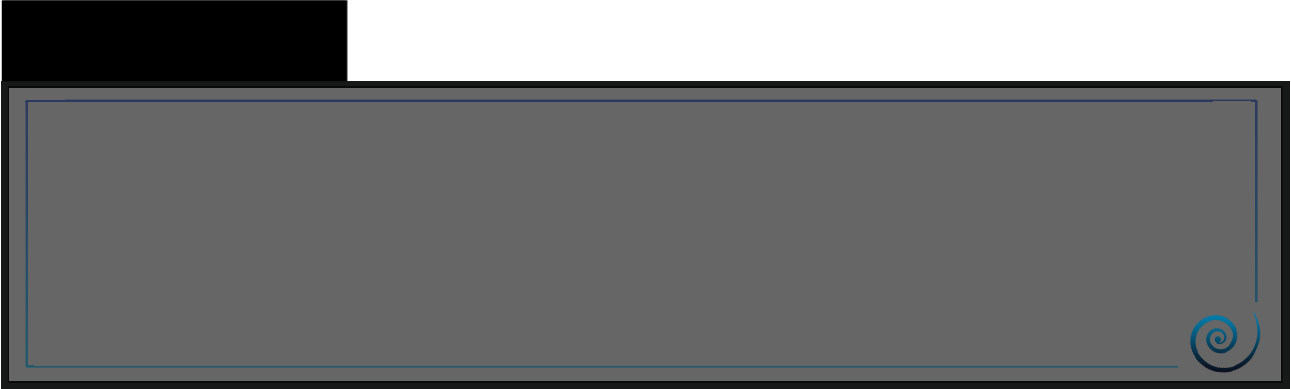
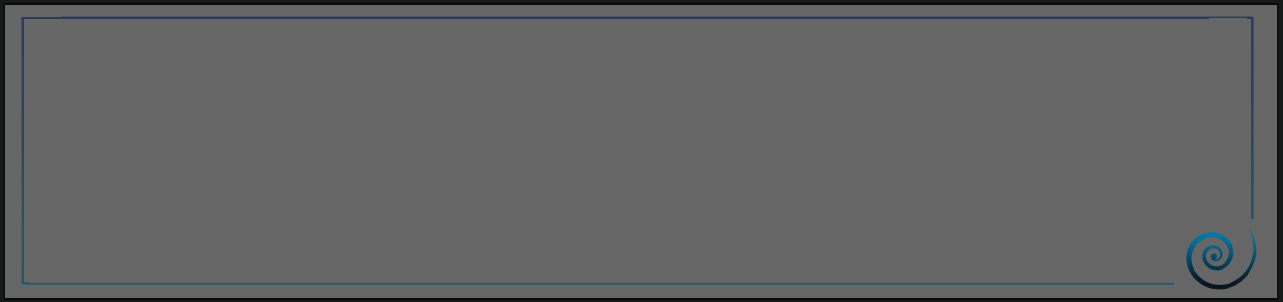
Доработано диологовое окно.

Changed region(s): [[0.0, 0.0, 1.0, 1.0]]

diff --git a/src/dialogue_box.rs b/src/dialogue_box.rs
@@ -7,7 +7,7 @@ use crate::{
 use lib::{
     AlignX,
     AlignY,
-    colours::White,
+    colours::{White,Black},
     TextViewLined,
     TextViewSettings
 };
@@ -19,11 +19,11 @@ use engine::{
     // structs
     image::{ImageBase,Texture,image::RgbaImage},
     text::{TextBase,Glyphs},
-    graphics::GameGraphics,
+    graphics::{GameGraphics,Point2D,MonoColourPolygon},
     glium::{Display,DrawParameters},
 };
 
-const k:f32=3.3f32; // Отношение размера окна игры к диалоговому окну
+const k:f32=4f32; // Отношение размера окна игры к диалоговому окну
 
 const font_size:f32=24f32;
 
@@ -34,6 +34,7 @@ pub struct DialogueBox<'b,'c>{
     chars:f32, // Количесво выводимых в данный момент символов диалога
     dialogue_step:usize,
     y1:f32, // Граница нижней трети экрана, где находится диалоговое окно
+    name_box:MonoColourPolygon,
     name_base:TextBase,
     lines:TextViewLined<'c>, // Текстовый блок для диалогов
     image:ImageBase,
@@ -43,28 +44,43 @@ pub struct DialogueBox<'b,'c>{
 
 impl<'b,'c> DialogueBox<'b,'c>{
     pub fn new(texture:&RgbaImage,display:&Display,glyphs:&'c Glyphs)->DialogueBox<'b,'c>{
-        let texture=Texture::from_image(display,texture).unwrap();
-
         unsafe{
             let height=window_height/k; // Высота диалогового окна
             let y1=window_height-height; // Верхняя граница диалогового окна
 
+            let rect=[
+                0f32,
+                y1,
+                window_width,
+                height,
+            ];
+
+            let polygon=[
+                Point2D::new(0f32,y1-60f32),
+                Point2D::new(400f32,y1-60f32),
+                Point2D::new(460f32,y1),
+                Point2D::new(0f32,y1),
+                Point2D::new(0f32,y1-60f32),
+            ];
+
+            let texture=Texture::from_image(display,texture).unwrap();
+
             // Позиция имени
             let name_position=[
-                window_width/50f32,
-                y1+height/5.5f32,
+                20f32,
+                y1-18f32,
             ];
 
             let line_position=[
-                window_width/30f32,
-                name_position[1]+height/5f32,
+                60f32,
+                y1+40f32,
             ];
 
             let line_settings=TextViewSettings::new("",[
                         line_position[0],
                         line_position[1],
                         (window_width-2f32*line_position[0]),
-                        height*0.8f32,
+                        height-80f32,
                     ])
                     .font_size(font_size)
                     .align_x(AlignX::Left)
@@ -80,15 +96,11 @@ impl<'b,'c> DialogueBox<'b,'c>{
                 lines:TextViewLined::new(line_settings,&glyphs),
 
                 // Имя
+                name_box:MonoColourPolygon::new(&polygon,Black),
                 name_base:TextBase::new(White,font_size)
                         .position([name_position[0],name_position[1]]),
 
-                image:ImageBase::new(White,[
-                    0f32,
-                    y1,
-                    window_width,
-                    height
-                ]),
+                image:ImageBase::new(White,rect),
                 
                 texture:texture,
                 glyphs:glyphs
@@ -154,6 +166,7 @@ impl<'b,'c> DialogueBox<'b,'c>{
 
         self.image.draw(&self.texture,draw_parameters,g); // Основа
 
+        self.name_box.draw(draw_parameters,g);
         self.name_base.draw(name,draw_parameters,g,&self.glyphs); // Имя
 
         // Реплика

diff --git a/engine/src/graphics/graphic_basics.rs b/engine/src/graphics/graphic_basics.rs
@@ -27,6 +27,52 @@ use glium::{
 // Здесь собраны простые фигуры
 // и основные функции к ним
 
+// Одноцветный многоугольник
+#[derive(Clone)]
+pub struct MonoColourPolygon{
+    points:Vec<Point2D>,
+    colour:Colour,
+}
+
+impl MonoColourPolygon{
+    pub fn new(points:&[Point2D],colour:Colour)->MonoColourPolygon{
+        Self{
+            points:points.into(),
+            colour
+        }
+    }
+
+    #[inline(always)]
+    pub fn draw(&self,draw_parameters:&mut DrawParameters,graphics:&mut GameGraphics){
+        graphics.draw_simple(self,draw_parameters)
+    }
+}
+
+impl SimpleObject for MonoColourPolygon{
+    fn draw_simple(&self,draw_parameters:&mut DrawParameters,frame:&mut Frame,graphics:&SimpleGraphics){
+        let slice=graphics.vertex_buffer.slice(0..self.points.len()).unwrap();
+        let indices=NoIndices(PrimitiveType::TriangleStrip);
+
+        let mut vec=Vec::with_capacity(self.points.len());
+        unsafe{
+            for point in &self.points{
+                vec.push(Point2D{
+                    position:[
+                        point.position[0]/window_center[0]-1f32,
+                        1f32-point.position[1]/window_center[1]
+                    ]
+                });
+            }
+        }
+
+        slice.write(&vec);
+
+        frame.draw(slice,indices,&graphics.program,&uniform!{colour:self.colour},draw_parameters);
+    }
+}
+
+
+
 // Прямоугольник
 // Заполняется одним цветом
 #[derive(Clone)]

diff --git a/engine/src/graphics/simple_graphics.rs b/engine/src/graphics/simple_graphics.rs
@@ -15,6 +15,14 @@ pub struct Point2D{
     pub position:[f32;2],
 }
 
+impl Point2D{
+    pub fn new(x:f32,y:f32)->Point2D{
+        Self{
+            position:[x,y]
+        }
+    }
+}
+
 // Для простых одноцветных объектов,
 // состоящих из менее, чем Points_limit точек
 // 

diff --git a/src/main.rs b/src/main.rs
@@ -1,5 +1,5 @@
 #![allow(non_snake_case,non_upper_case_globals,non_camel_case_types,dead_code,unused_unsafe)]
-//#![windows_subsystem="windows"]
+#![windows_subsystem="windows"]
 
 use lib::{
     *,

diff --git a/README.MD b/README.MD
@@ -1,5 +1,5 @@
 # Визуальная новелла, написанная на Rust с помощью собственного игрового движка, основанного на [игровом движке Piston](https://github.com/PistonDevelopers/piston).
-## Версия 1.1.3
+## Версия 1.1.4
 
 Последняя стабильная версия Rust, минимальная версия OpenGL - `3.1`.
 
